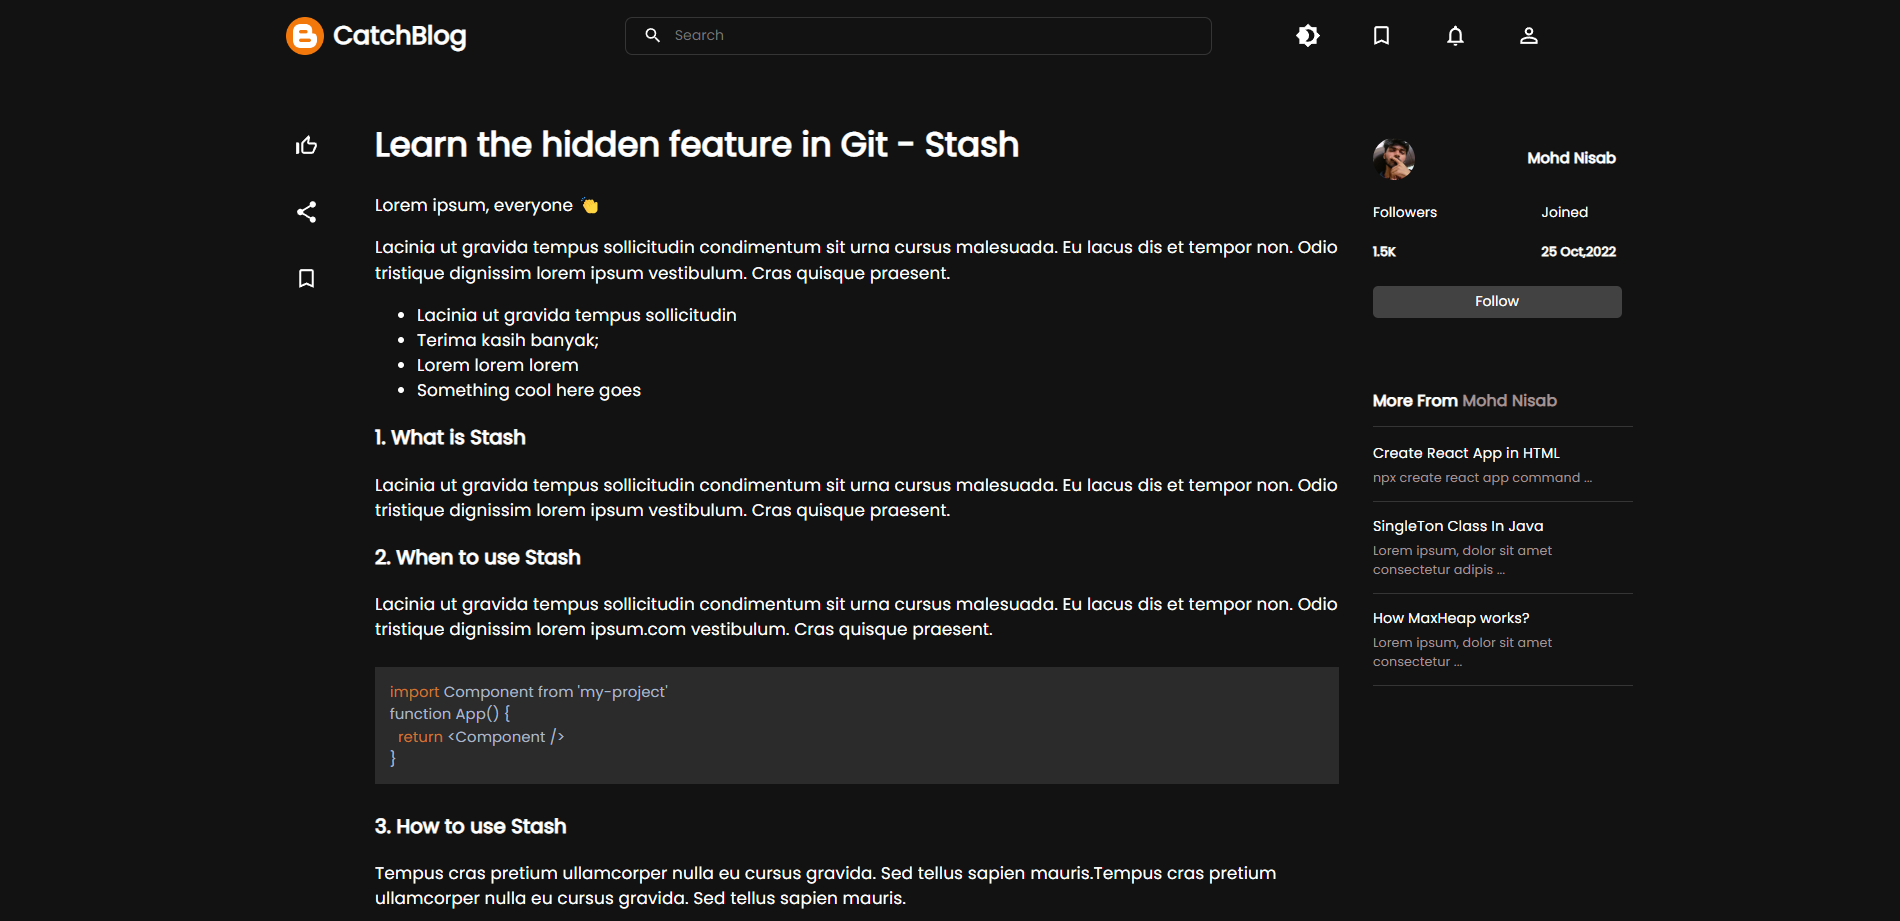
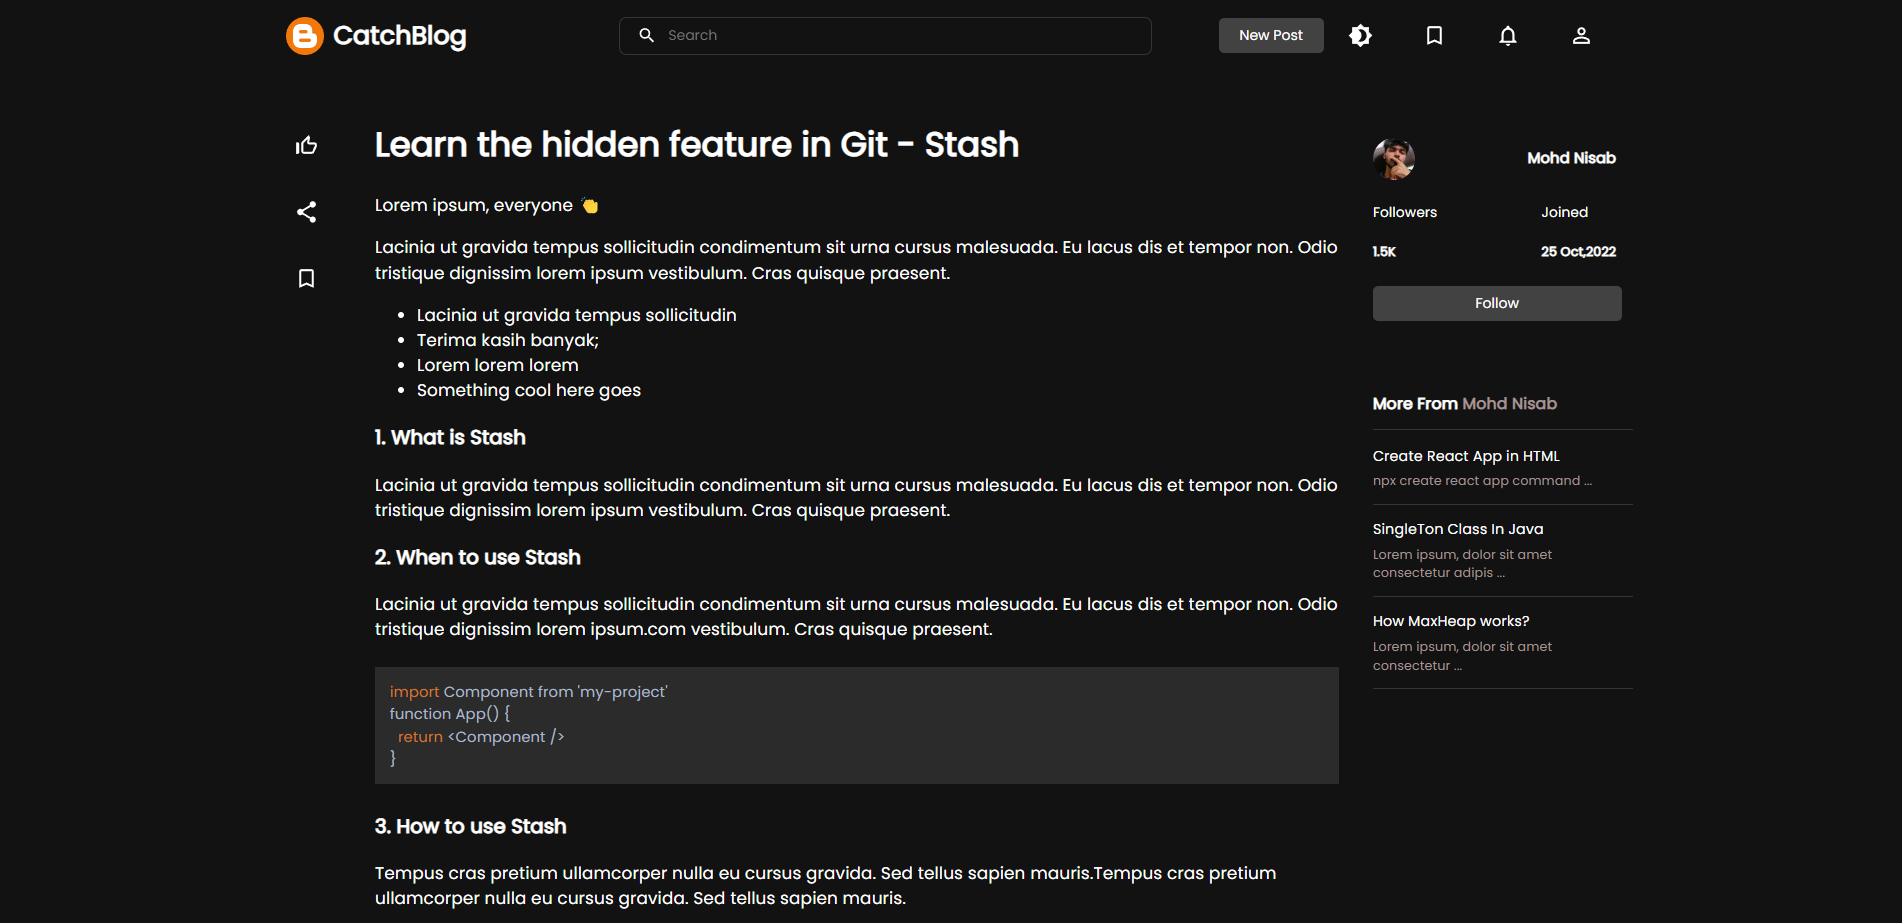
Add new post added client

diff --git a/client/src/components/Syntax.js b/client/src/components/Syntax.js
@@ -1,15 +1,13 @@
-import { useContext, useState } from "react";
+import { useState } from "react";
 import { Prism as SyntaxHighlighter } from 'react-syntax-highlighter';
-import { nord,darcula} from 'react-syntax-highlighter/dist/esm/styles/prism';
-import { AppContext } from "../App";
+import { darcula} from 'react-syntax-highlighter/dist/esm/styles/prism';
 
 export const Syntax = (props) => {
-    const context=useContext(AppContext)
     const [state] = useState(props.children[0])
     console.log(props);
     return (
         <div style={{borderRadius:'5px',overflow:'hidden',fontSize:'14px',fontFamily:'Fira Code'}}>
-            <SyntaxHighlighter language='java' style={context.dark?darcula:nord}>
+            <SyntaxHighlighter language='java' style={darcula}>
                 {state}
             </SyntaxHighlighter>
         </div>

diff --git a/client/src/components/UserCard.js b/client/src/components/UserCard.js
@@ -45,7 +45,7 @@ export const UserCard = () => {
                 </div>
             </div>
             <dib className="button" style={{width:'92%'}}>
-                 <button style={{fontFamily:'Poppins',width:'inherit',marginTop:'9px',color:'white',border:'none',outline:'none',background:'rgb(66 66 66)',height:'30px',borderRadius:'5px',cursor:'pointer'}} variant="outlined">Follow</button>
+                 <button style={{fontFamily:'Poppins',width:'inherit',marginTop:'9px',color:'white',border:'none',outline:'none',background:'rgb(66 66 66)',height:'33px',borderRadius:'5px',cursor:'pointer'}} variant="outlined">Follow</button>
             </dib>
         </div >
     )

diff --git a/client/src/components/Navbar.js b/client/src/components/Navbar.js
@@ -27,6 +27,7 @@ export const Navbar = () => {
                     </div>
                 </div>
                 <div className="right">
+                    <button style={{ fontFamily: 'Poppins', width: 'inherit', color: 'white', border: 'none', outline: 'none', background: 'rgb(66 66 66)', height: '33px', borderRadius: '5px', cursor: 'pointer' }} variant="outlined">New Post</button>
                     <div className="tags">
                         <IconButton onClick={() => { context.setDark(!context.dark) }} sx={{ margin: '0 15px' }}><Brightness4Icon /></IconButton>
                         <IconButton sx={{ margin: '0 15px' }}><BookmarkBorderIcon /></IconButton>

diff --git a/client/public/index.html b/client/public/index.html
@@ -3,11 +3,11 @@
 
 <head>
   <meta charset="utf-8" />
-  <link rel="icon" href="%PUBLIC_URL%/favicon.ico" />
+  <link rel="icon" href="./logo.png" />
   <meta name="viewport" content="width=device-width, initial-scale=1" />
   <meta name="theme-color" content="#000000" />
   <meta name="description" content="Web site created using create-react-app" />
-  <link rel="apple-touch-icon" href="%PUBLIC_URL%/logo192.png" />
+  <link rel="apple-touch-icon" href="./logo.png" />
   <link rel="manifest" href="%PUBLIC_URL%/manifest.json" />
   <link rel="preconnect" href="https://fonts.googleapis.com">
   <link rel="preconnect" href="https://fonts.gstatic.com" crossorigin>

diff --git a/client/src/css/Navbar.css b/client/src/css/Navbar.css
@@ -13,14 +13,14 @@
     align-items: center;
 }
 .right{
-    width: 20%;
+    width: 30%;
     display: flex;
     flex-direction: row;
     align-items: center;
     justify-content: center;
 }
 .middle{
-    width: 55%;
+    width: 50%;
     display: flex;
     flex-direction: row;
     align-items: center;
